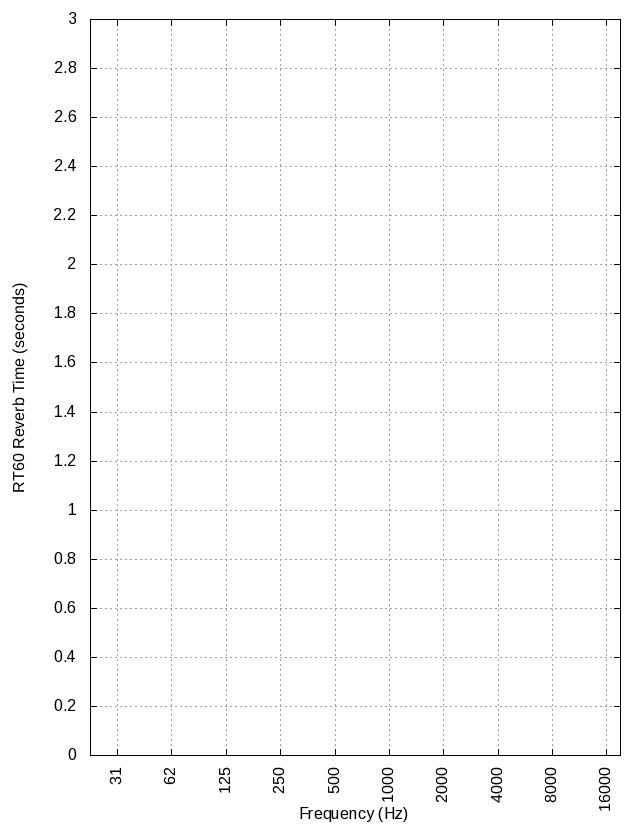
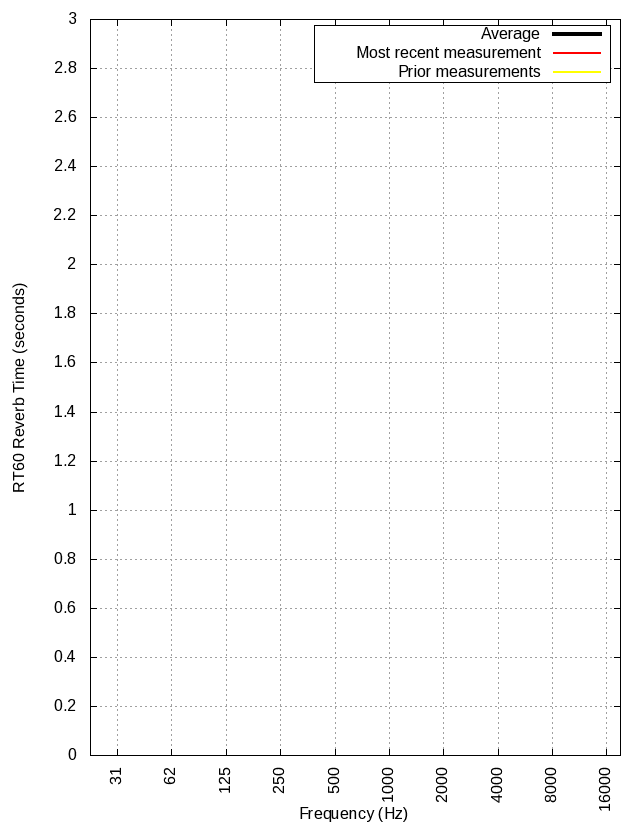
pause automatically when using options.  altered line appearance. Fixed redraw bugs.

Changed region(s): [[0.5625, 0.0312, 0.8438, 0.0938], [0.875, 0.0312, 0.9375, 0.0938]]

diff --git a/ClapIR/MainViewController.m b/ClapIR/MainViewController.m
@@ -18,6 +18,7 @@
     PlotView *_reverbAvgPlot, *_directSoundAvgPlot, *_freqResponseAvgPlot;
 }
 -(void)reset;
+-(void)redraw;
 @end
 
 @implementation MainViewController
@@ -57,9 +58,9 @@
     _freqResponseAvgPlot = [[PlotView alloc] initWithFrame:freqResponsePlotView.frame];
     [spectraView addSubview:_freqResponseAvgPlot];
     // set curve appearance
-    [_reverbAvgPlot       setLineColor:[UIColor blueColor]];
-    [_directSoundAvgPlot  setLineColor:[UIColor blueColor]];
-    [_freqResponseAvgPlot setLineColor:[UIColor blueColor]];
+    UIColor* black = [UIColor colorWithRed:0 green:0 blue:0 alpha:1];
+    _reverbAvgPlot.lineColor = _directSoundAvgPlot.lineColor = _freqResponseAvgPlot.lineColor = black;
+    _reverbAvgPlot.lineWidth = _directSoundAvgPlot.lineWidth = _freqResponseAvgPlot.lineWidth = 1.5;
     // set curve range
     [_reverbAvgPlot       setYRange_min:0 max:3];
     [_directSoundAvgPlot  setYRange_min:0 max:80];
@@ -100,10 +101,7 @@
     }
     // reset average curves
     [avgMeasurement clear];
-    // redraw average line for each plot
-    [_reverbAvgPlot       setNeedsDisplay];
-    [_directSoundAvgPlot  setNeedsDisplay];
-    [_freqResponseAvgPlot setNeedsDisplay];
+    [self redraw];
     
     // restart audio
     NSLog( @"Calculating background level..." );
@@ -177,6 +175,25 @@ typedef enum{
 
 }
 
+-(void)redraw{
+    // make previously-most-recent lines yellow in all three plots
+    if( _measurements.count > 1 ){
+        for( UIView* curveSuperView in _plotViews ){            
+            PlotView* prevPlot = [curveSuperView.subviews objectAtIndex:curveSuperView.subviews.count-2];
+            prevPlot.lineColor = [UIColor yellowColor];
+            [prevPlot setNeedsDisplay];
+        }
+    }
+    
+    // redraw
+    [_reverbAvgPlot       setNeedsDisplay];
+    [_directSoundAvgPlot  setNeedsDisplay];
+    [_freqResponseAvgPlot setNeedsDisplay];
+    for( UIView* view in _plotViews ){
+        [view setNeedsDisplay];
+    }
+}
+
 -(IBAction)undo{
     @synchronized( _measurements ){
         // erase latest plot line from all three plots
@@ -191,6 +208,7 @@ typedef enum{
             [avgMeasurement removeSample:lastMeasurement];
         }
     }
+    [self redraw];
 }
 
 -(IBAction)indexDidChangeForSegmentedControl:(UISegmentedControl*)aSegmentedControl {
@@ -208,7 +226,11 @@ typedef enum{
                                                 destructiveButtonTitle:nil 
                                                      otherButtonTitles:@"Visit the website",@"Email us feedback",@"Email your results",@"Reset",nil];
     [optionsSheet showFromBarButtonItem:self.optionsButton animated:YES];
+
+    // pause recorder while on the actionsheet or composing email
+    if( !_paused ) [self pause];
 }
+
 
 #pragma mark - ClapRecorderDelegate methods
 -(void)gotMeasurement:(ClapMeasurement *)measurement{
@@ -231,10 +253,6 @@ typedef enum{
     [_reverbAvgPlot       setVector:avgMeasurement.reverbTimeSpectrum   length:ClapMeasurement.numFreqs];
     [_directSoundAvgPlot  setVector:avgMeasurement.directSoundSpectrum  length:ClapMeasurement.numFreqs];
     [_freqResponseAvgPlot setVector:avgMeasurement.freqResponseSpectrum length:ClapMeasurement.numFreqs];   
-    // redraw average line for each plot
-    [_reverbAvgPlot       setNeedsDisplay];
-    [_directSoundAvgPlot  setNeedsDisplay];
-    [_freqResponseAvgPlot setNeedsDisplay];
     
     NSLog( @"rt60 = %.3f seconds", measurement.reverbTime );
     for( int i=0; i<ClapMeasurement.numFreqs; i++ ){
@@ -274,19 +292,7 @@ typedef enum{
         [plot setLineColor:[UIColor redColor]];
     }
 
-    // make previously-most-recent lines yellow in all three plots
-    if( _measurements.count > 1 ){
-        for( UIView* curveSuperView in _plotViews ){            
-            PlotView* prevPlot = [curveSuperView.subviews objectAtIndex:curveSuperView.subviews.count-2];
-            prevPlot.lineColor = [UIColor yellowColor];
-            [prevPlot setNeedsDisplay];
-        }
-    }
-    
-    // redraw
-    for( UIView* view in _plotViews ){
-        [view setNeedsDisplay];
-    }
+    [self redraw];
 }
 
 -(void)gotBackgroundLevel:(float)energy{
@@ -315,7 +321,6 @@ typedef enum{
     }else if( buttonIndex == 4 ){
         // dismiss view
         [self dismissModalViewControllerAnimated:YES];
-        
     }
 }
 

diff --git a/ClapIR/PlotView.mm b/ClapIR/PlotView.mm
@@ -23,6 +23,7 @@
 @synthesize lineColor;
 @synthesize autoZoomOut;
 @synthesize clickToAutoRange;
+@synthesize lineWidth;
 
 - (id)initWithFrame:(CGRect)frame{
     if ((self = [super initWithFrame:frame])) {
@@ -31,6 +32,8 @@
 		//self.opaque = YES;
 		self.opaque = NO;
 		self.clearsContextBeforeDrawing = YES;
+
+        self.lineWidth = 0.5;
 
 		// TODO: automatically set range
 		[self setYRange_min:-1 max:1];
@@ -102,7 +105,7 @@
 			CGContextMoveToPoint(context, i * xStep, Y - (self.data[i]-self.minY) * yStep);	
 			//printf("line %f %f %f\n", data[i], i * xStep, Y - (self.data[i]-self.minY) * yStep);
 		}
-		CGContextSetLineWidth(context, 0.5);
+		CGContextSetLineWidth(context, lineWidth);
 		CGContextStrokePath(context);
 	}
 	[self setNeedsDisplay]; // make it redraw

diff --git a/ClapIR/PlotView.h b/ClapIR/PlotView.h
@@ -23,8 +23,9 @@
 @property (nonatomic) float maxY;
 // TODO: [UIColor blackColor] does not work here because it is in a mono color space
 @property (strong,nonatomic) UIColor* lineColor;
+@property (nonatomic) float lineWidth;
 @property (nonatomic) BOOL autoZoomOut;
-@property BOOL clickToAutoRange;
+@property (nonatomic) BOOL clickToAutoRange;
 
 // set the y axis range of the plot
 -(void)setYRange_min: (float)Ymin  max:(float)Ymax;
